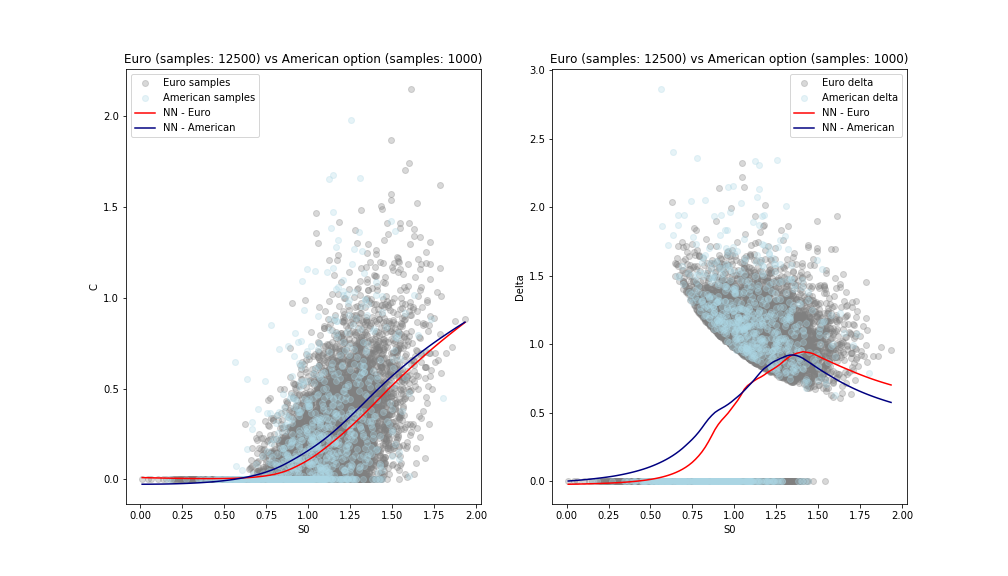
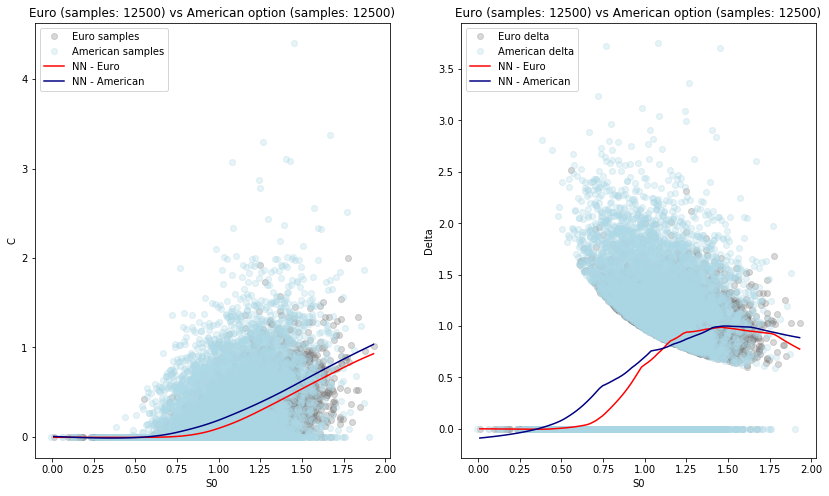
Updated LSM

diff --git a/Main.py b/Main.py
@@ -12,6 +12,8 @@ import matplotlib.pyplot as plt
 import numpy as np
 #%%
 nSamples = 12500
+alpha = 1/(1+nSamples)
+beta = 1-alpha
 dt = 10
 T = 1.
 sigma = 0.2 + np.random.normal(0, 0.025, nSamples)
@@ -44,9 +46,9 @@ for i in range(0, S0.shape[0]):
     C[i] = product.payoff(torch.tensor(S), torch.tensor(r), torch.tensor(T))
 
 #Define and train net
-net = nn.NeuralNet(2, 1, 6, 60, differential=True)
+net = nn.NeuralNet(2, 1, 4, 20, differential=True)
 net.generateData(X, C, greeks)
-net.train(n_epochs = 5, batch_size=100, alpha=0.1, beta=0.9, lr=0.001)
+net.train(n_epochs = 100, batch_size=257, alpha=alpha, beta=beta, lr=0.001)
 
 #predict
 S0_test = np.linspace(S0.min(), S0.max(), 100)
@@ -92,44 +94,45 @@ plt.show()
 #%%
 #____________________________________________________________________________
 ###   Longstaff - Schwartz example   ###
-
-nSamples_LSM = 1000
+nSamples_LSM = 12500
 S_LSM = K + d * torch.normal(0, 1, size=(nSamples_LSM, 1))
 K_LSM = torch.tensor(1.)
 sigma_LSM = torch.tensor(0.2)
 r_LSM = torch.tensor(0.03)
-dts_LSM = torch.tensor([1., 1., 1., 1.]).view(1,4)
+dt = 4
+dts_LSM = torch.tensor([1.]*dt).view(1,dt)
 
-C_LSM = torch.empty((S_LSM.shape[0]))
-greeks_LSM = torch.empty((S_LSM.shape[0]))
-St_LSM = torch.empty((S_LSM.shape[0], 4))
+C_LSM = np.empty((S_LSM.shape[0]))
+greeks_LSM = np.empty((S_LSM.shape[0],1))
+
+dW = torch.randn(nSamples_LSM, dt)
+St, Et = ls.genPaths(S_LSM, K_LSM, sigma_LSM, r_LSM, dts_LSM, dW)
+
+w, b = ls.LSM_train(St, Et)
+
+
 for i in range(S_LSM.shape[0]):
-    if i % 100 == 0:
-        print(i, '/', nSamples_LSM)
     Si = S_LSM[i]
-    dW = torch.randn(1,4)
-    St, Et = ls.genPaths(Si, K_LSM, sigma_LSM, r_LSM, dts_LSM, dW)
-    w, b = ls.LSM_train(St, Et)
     Si.requires_grad_()
-    C_LSM[i] = ls.LSM(Si, K_LSM, sigma_LSM, r_LSM, dts_LSM, dW, w, b)
-    greeks_LSM[i] = torch.autograd.grad(C_LSM[i], [Si], allow_unused=True)[0]
-    
+    tempC = ls.LSM(Si, K_LSM, sigma_LSM, r_LSM, dts_LSM, dW[i], w, b)
+    tempgreeks = torch.autograd.grad(tempC, [Si], allow_unused=True)[0]
+    C_LSM[i] = tempC.detach().numpy()
+    greeks_LSM[i] = tempgreeks.detach().numpy()
+
 print('Data generated')
 
 #Define and train net
-netLSM = nn.NeuralNet(1, 1, 6, 60, differential=True)
-netLSM.generateData(S_LSM.detach(), C_LSM.detach(), greeks_LSM)
-netLSM.prepare()
-netLSM.lambda_j = 1.0 / torch.sqrt((netLSM.dydx ** 2).mean(0)).reshape(1, -1)
-netLSM.train(n_epochs = 5, batch_size=10, alpha=0.1, beta=0.9, lr=0.001)
+netLSM = nn.NeuralNet(1, 1, 4, 20, differential=True)
+netLSM.generateData(S_LSM.detach().numpy(), C_LSM, greeks_LSM)
+netLSM.train(n_epochs = 80, batch_size=257, alpha=alpha, beta=beta, lr=0.001)
 
 #predict
-y_LSM_test, dydx_LSM_test = netLSM.predict(S0_test, gradients=True)
+y_LSM_test, dydx_LSM_test = netLSM.predict(X_test[:,0], gradients=True)
 
 plt.figure(figsize=[14,8])
 plt.subplot(1, 2, 1)
 plt.plot(S0, C, 'o', color='grey', alpha = 0.3, label='Euro samples')
-plt.plot(S_LSM.detach().numpy(), C_LSM.detach().numpy(), 'o', color='lightblue', alpha = 0.3, label='American samples')
+plt.plot(S_LSM.detach().numpy(), C_LSM, 'o', color='lightblue', alpha = 0.3, label='American samples')
 plt.plot(S0_test, y_test, color='red', label='NN - Euro')
 plt.plot(S0_test, y_LSM_test, color='navy', label='NN - American')
 plt.legend()
@@ -139,7 +142,7 @@ plt.ylabel('C')
 
 plt.subplot(1, 2, 2)
 plt.plot(S0, greeks[:,0], 'o', color='grey', alpha = 0.3, label='Euro delta')
-plt.plot(S_LSM.detach().numpy(), greeks_LSM.detach().numpy(), 'o', color='lightblue', alpha = 0.3, label='American delta')
+plt.plot(S_LSM.detach().numpy(), greeks_LSM, 'o', color='lightblue', alpha = 0.3, label='American delta')
 plt.plot(S0_test, dydx_test[:,0], color='red', label='NN - Euro')
 plt.plot(S0_test, dydx_LSM_test, color='navy', label='NN - American')
 plt.legend()
@@ -147,4 +150,3 @@ plt.title(f'Euro (samples: {nSamples}) vs American option (samples: {nSamples_LS
 plt.xlabel('S0')
 plt.ylabel('Delta')
 plt.show()
-#plt.savefig('./Plots/LongstaffvsEuro')

diff --git a/Models/LongstaffSchwartz.py b/Models/LongstaffSchwartz.py
@@ -14,10 +14,10 @@ class LinearModel(nn.Module):
     def forward(self, x):
         return self.linear(x)
 
-    def train(self, X, y, n_epochs=10, batch_size=100):
+    def train(self, X, y, n_epochs=100, batch_size=257):
 
         loss = nn.MSELoss()
-        optimizer = optim.Adam(self.parameters(), lr = 0.01)
+        optimizer = optim.Adam(self.parameters(), lr = 0.001)
         for epoch in range(n_epochs):
 
             permutation = torch.randperm(X.size()[0])
@@ -34,7 +34,11 @@ class LinearModel(nn.Module):
 #Creates feature matrix from state variable
 def featureMatrix(state):
     state = state.view(state.shape[0], 1)
-    X = torch.cat((state, torch.pow(state, 2), torch.pow(state, 3), torch.pow(state, 4)), dim = 1)
+    x1 = state
+    x2 = torch.pow(state, 2)
+    x3 = torch.pow(state, 3)
+    x4 = torch.pow(state, 4)
+    X = torch.cat((x1, x2, x3, x4), dim = 1)
     return X
 
 #Simulates Black-Scholes paths and calculates exercise value at each t
